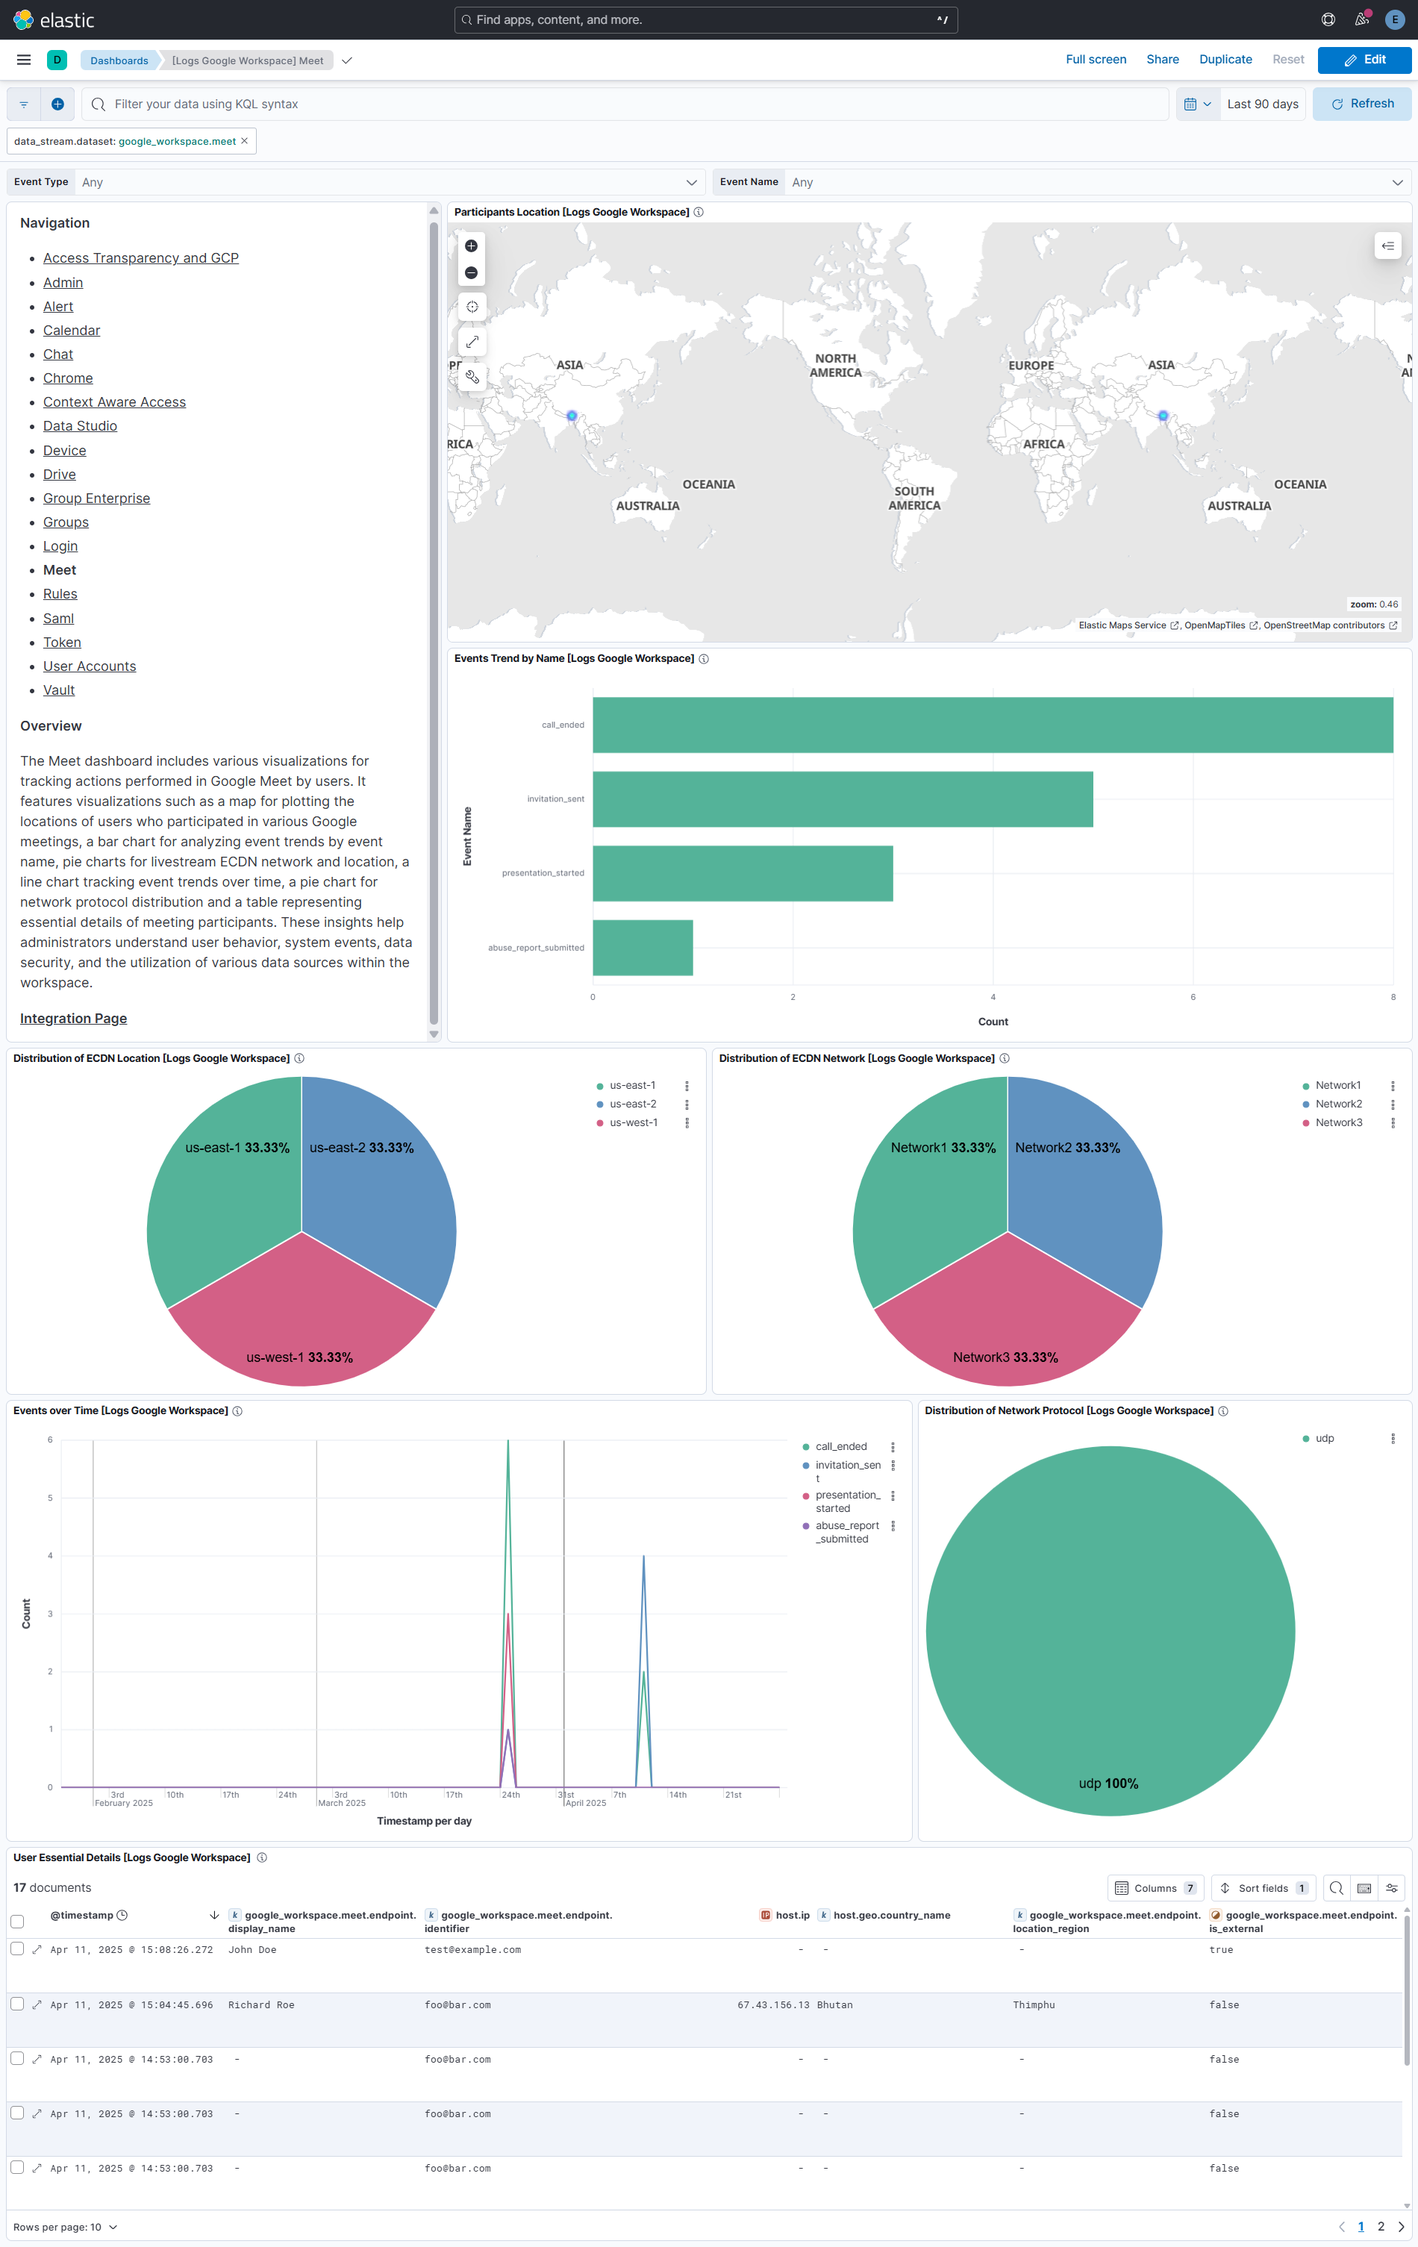
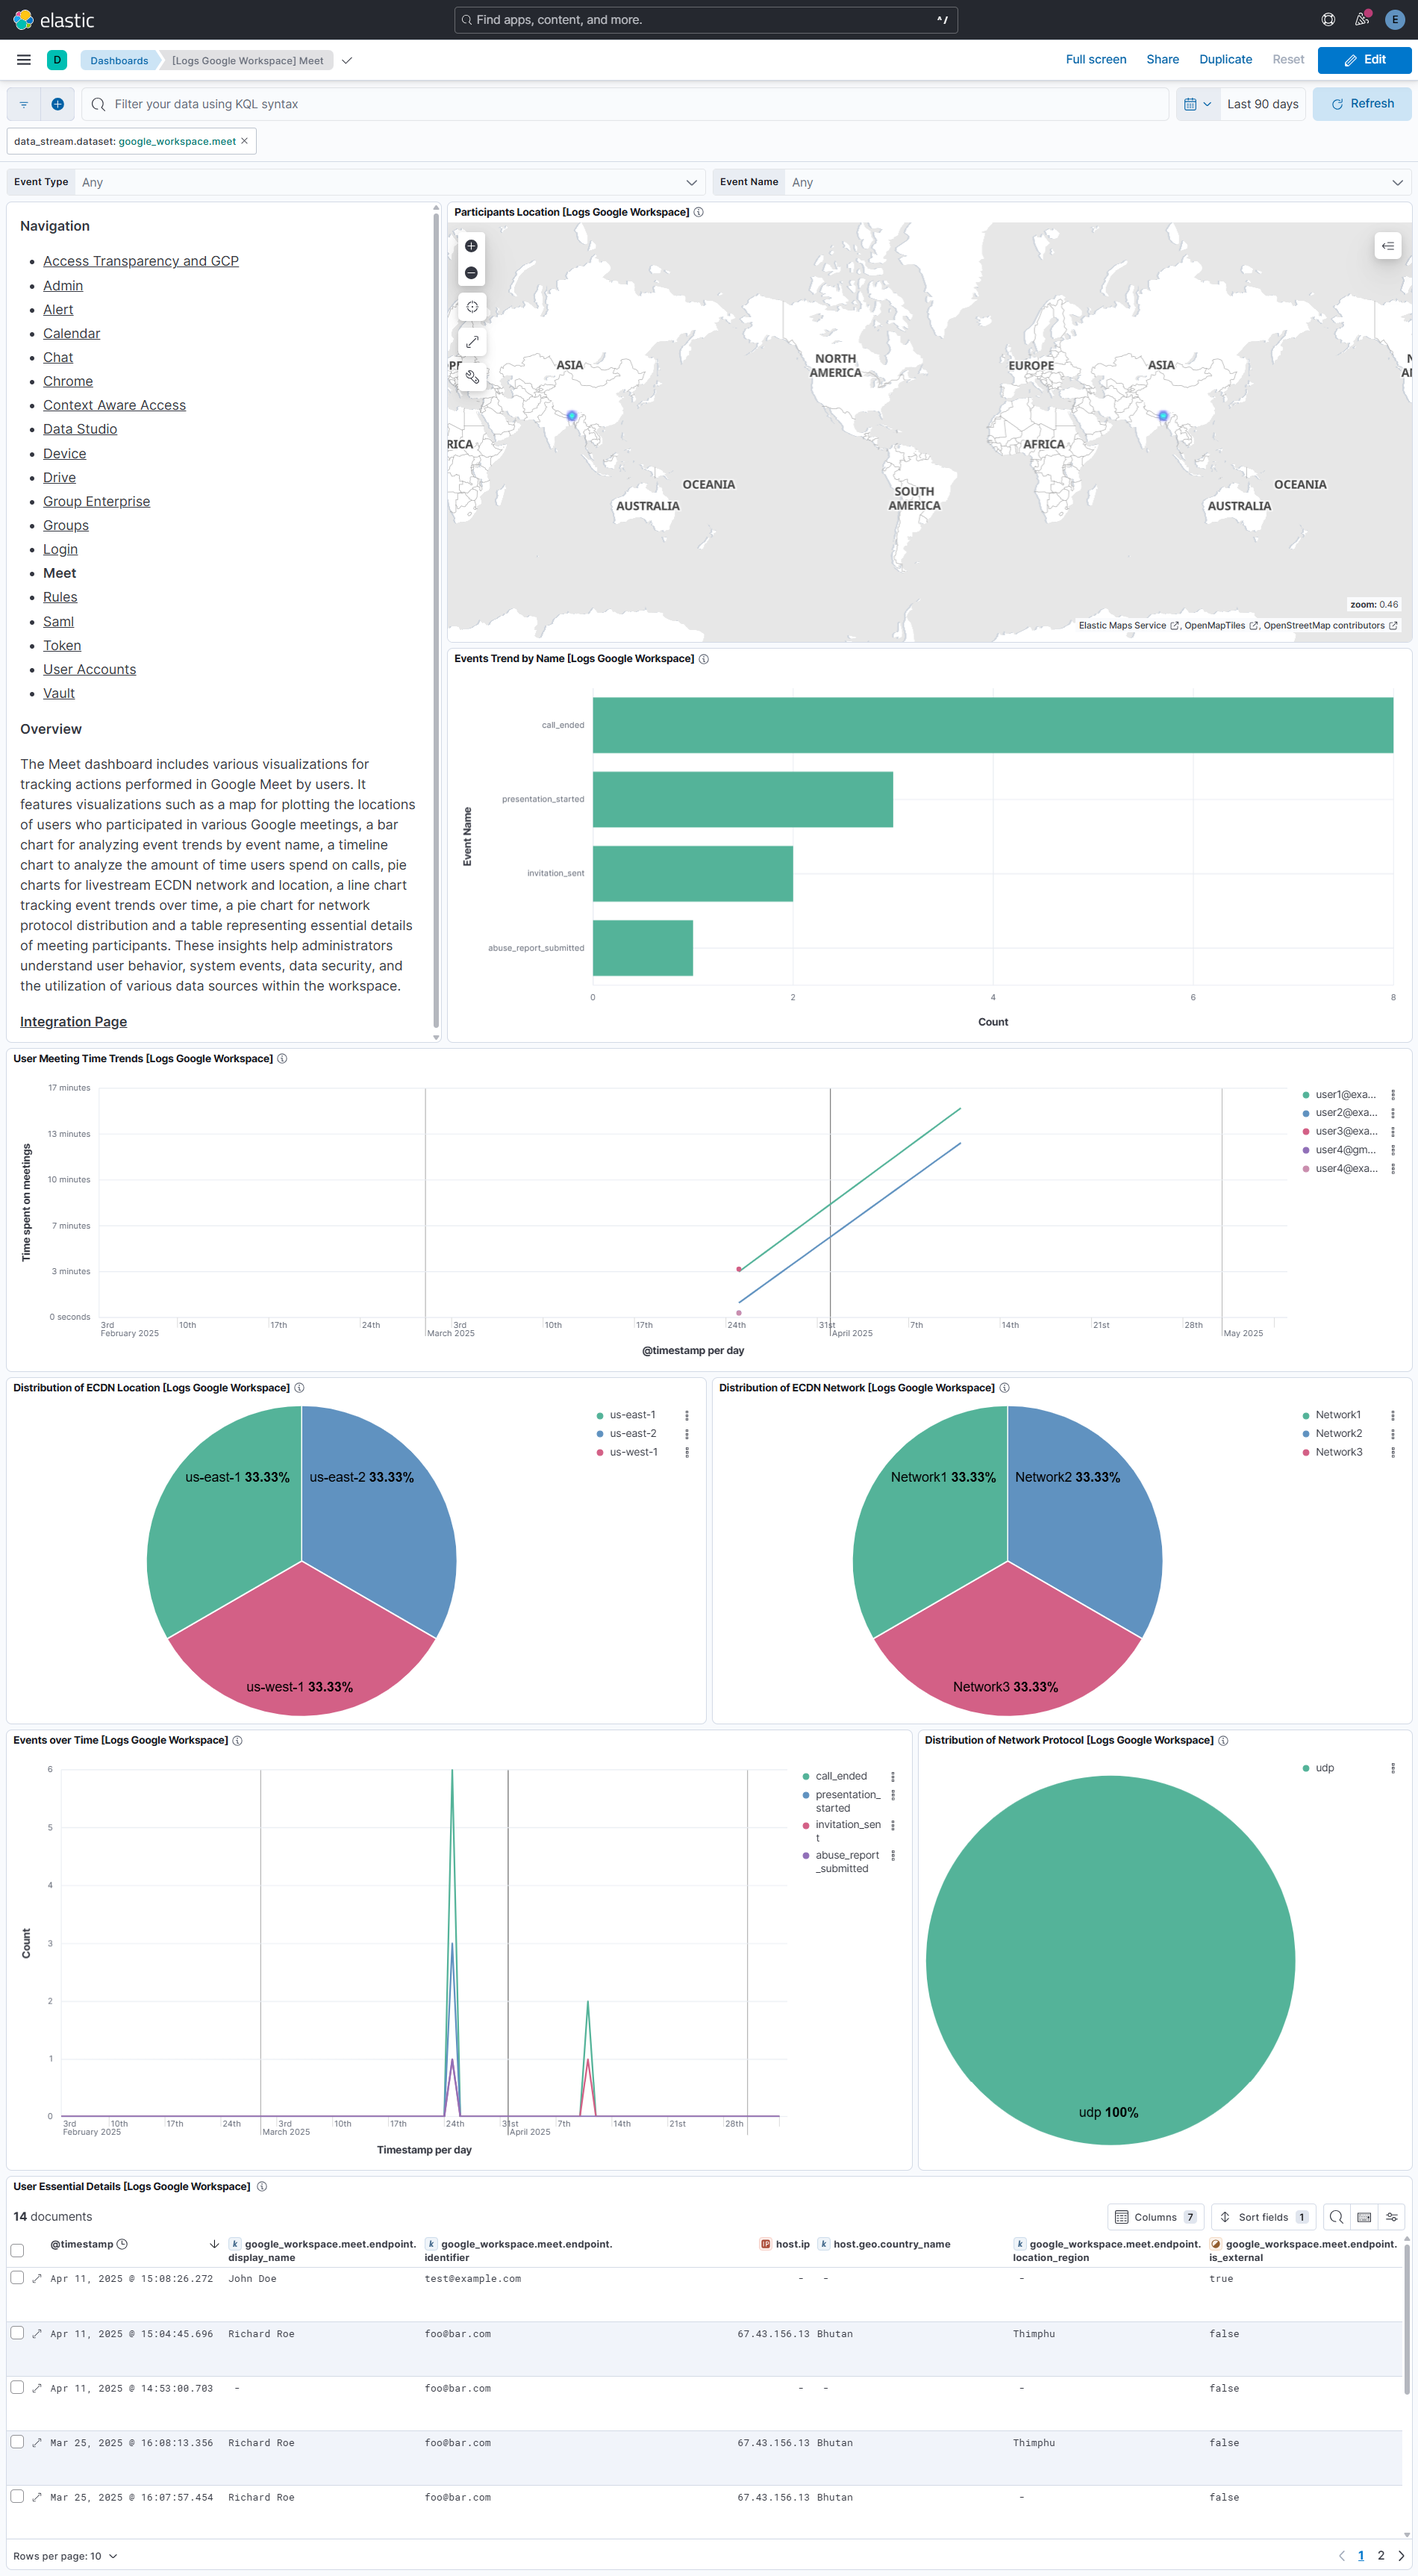
Add user meeting time visualization
Improve ingest pipeline for user.* ECS mapping

Update CEL logic as per other data streams

diff --git a/packages/google_workspace/docs/README.md b/packages/google_workspace/docs/README.md
@@ -3665,22 +3665,22 @@ An example event for `meet` looks as following:
 {
     "@timestamp": "2025-04-11T09:23:00.703059Z",
     "agent": {
-        "ephemeral_id": "cb95fe6a-fb4d-44be-95ad-d3a4e40bdd61",
-        "id": "76eeb811-464d-4c2d-bec0-6e9769916c36",
-        "name": "elastic-agent-39147",
+        "ephemeral_id": "7a575721-1942-4427-82ec-22448e27a2d1",
+        "id": "eb41b16b-f309-4682-9d3a-30342d680fe9",
+        "name": "elastic-agent-32126",
         "type": "filebeat",
         "version": "8.18.0"
     },
     "data_stream": {
         "dataset": "google_workspace.meet",
-        "namespace": "78724",
+        "namespace": "56950",
         "type": "logs"
     },
     "ecs": {
         "version": "8.16.0"
     },
     "elastic_agent": {
-        "id": "76eeb811-464d-4c2d-bec0-6e9769916c36",
+        "id": "eb41b16b-f309-4682-9d3a-30342d680fe9",
         "snapshot": true,
         "version": "8.18.0"
     },
@@ -3689,7 +3689,7 @@ An example event for `meet` looks as following:
         "agent_id_status": "verified",
         "dataset": "google_workspace.meet",
         "id": "1",
-        "ingested": "2025-04-25T07:03:39Z",
+        "ingested": "2025-05-05T10:30:54Z",
         "kind": "event",
         "original": "{\"actor\":{\"callerType\":\"USER\",\"email\":\"foo@bar.com\",\"profileId\":\"1\"},\"etag\":\"abcdefgh/cBsNSJx2A9Lg8kiQCGLddmq827A\",\"events\":{\"name\":\"invitation_sent\",\"parameters\":[{\"boolValue\":false,\"name\":\"is_external\"},{\"name\":\"meeting_code\",\"value\":\"NTBTYDTXBE\"},{\"name\":\"conference_id\",\"value\":\"-PeisjX_5iUtKPuGffkJDaBcdEfgh\"},{\"name\":\"action_time\",\"value\":\"2025-04-11T09:23:00.703059Z\"},{\"intValue\":\"1\",\"name\":\"target_user_count\"},{\"name\":\"identifier\",\"value\":\"foo@bar.com\"},{\"name\":\"identifier_type\",\"value\":\"email_address\"}],\"type\":\"conference_action\"},\"id\":{\"applicationName\":\"meet\",\"customerId\":\"1\",\"time\":\"2025-04-11T09:23:00.703Z\",\"uniqueQualifier\":\"1\"},\"kind\":\"admin#reports#activity\"}",
         "provider": "meet",
